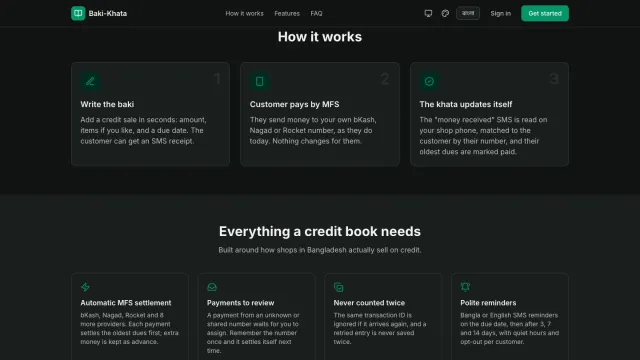
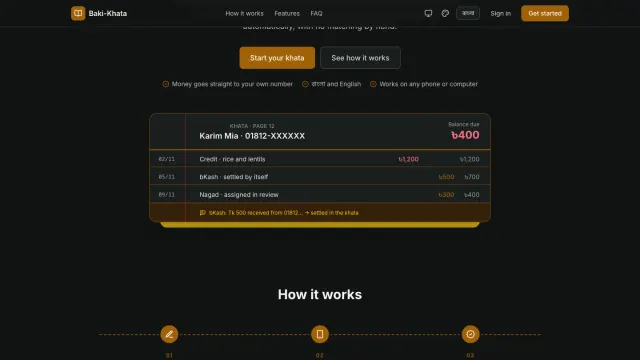
Show the new Baki-Khata and COD Reconcile designs
Both apps now have a look of their own (mustard khata page, courier-blue
statement); their slides are retaken from the live sites and the alt
text follows the new slides.

diff --git a/index.html b/index.html
@@ -338,7 +338,7 @@
                   alt="Baki-Khata home page: a shop's credit ledger settled automatically by bKash payments" loading="lazy">
                 <img src="images/proj_baki-khata-2-1200.webp"
                   srcset="images/proj_baki-khata-2-640.webp 640w, images/proj_baki-khata-2-1200.webp 1200w" sizes="(max-width: 800px) 100vw, 560px" width="1440" height="810"
-                  alt="Baki-Khata how it works in three steps" loading="lazy">
+                  alt="Baki-Khata ledger page with a running balance and the bKash SMS that settled it" loading="lazy">
                 <img src="images/proj_baki-khata-3-1200.webp"
                   srcset="images/proj_baki-khata-3-640.webp 640w, images/proj_baki-khata-3-1200.webp 1200w" sizes="(max-width: 800px) 100vw, 560px" width="1440" height="810"
                   alt="Baki-Khata features for a shop credit book" loading="lazy">
@@ -361,10 +361,10 @@
                   alt="COD Reconcile home page: a courier invoice with a short-paid parcel and a return charged on a delivered parcel flagged" loading="lazy">
                 <img src="images/proj_cod-reconcile-2-1200.webp"
                   srcset="images/proj_cod-reconcile-2-640.webp 640w, images/proj_cod-reconcile-2-1200.webp 1200w" sizes="(max-width: 800px) 100vw, 560px" width="1440" height="810"
-                  alt="COD Reconcile: where COD money leaks" loading="lazy">
+                  alt="COD Reconcile courier statement checked parcel by parcel" loading="lazy">
                 <img src="images/proj_cod-reconcile-3-1200.webp"
                   srcset="images/proj_cod-reconcile-3-640.webp 640w, images/proj_cod-reconcile-3-1200.webp 1200w" sizes="(max-width: 800px) 100vw, 560px" width="1440" height="810"
-                  alt="COD Reconcile features for COD-heavy shops" loading="lazy">
+                  alt="COD Reconcile: where COD money leaks" loading="lazy">
               </a>
             </div>
             <h4><a href="https://cod-reconcile-web.vercel.app/?lang=en" target="_blank" rel="noopener noreferrer">COD Reconcile</a></h4>
